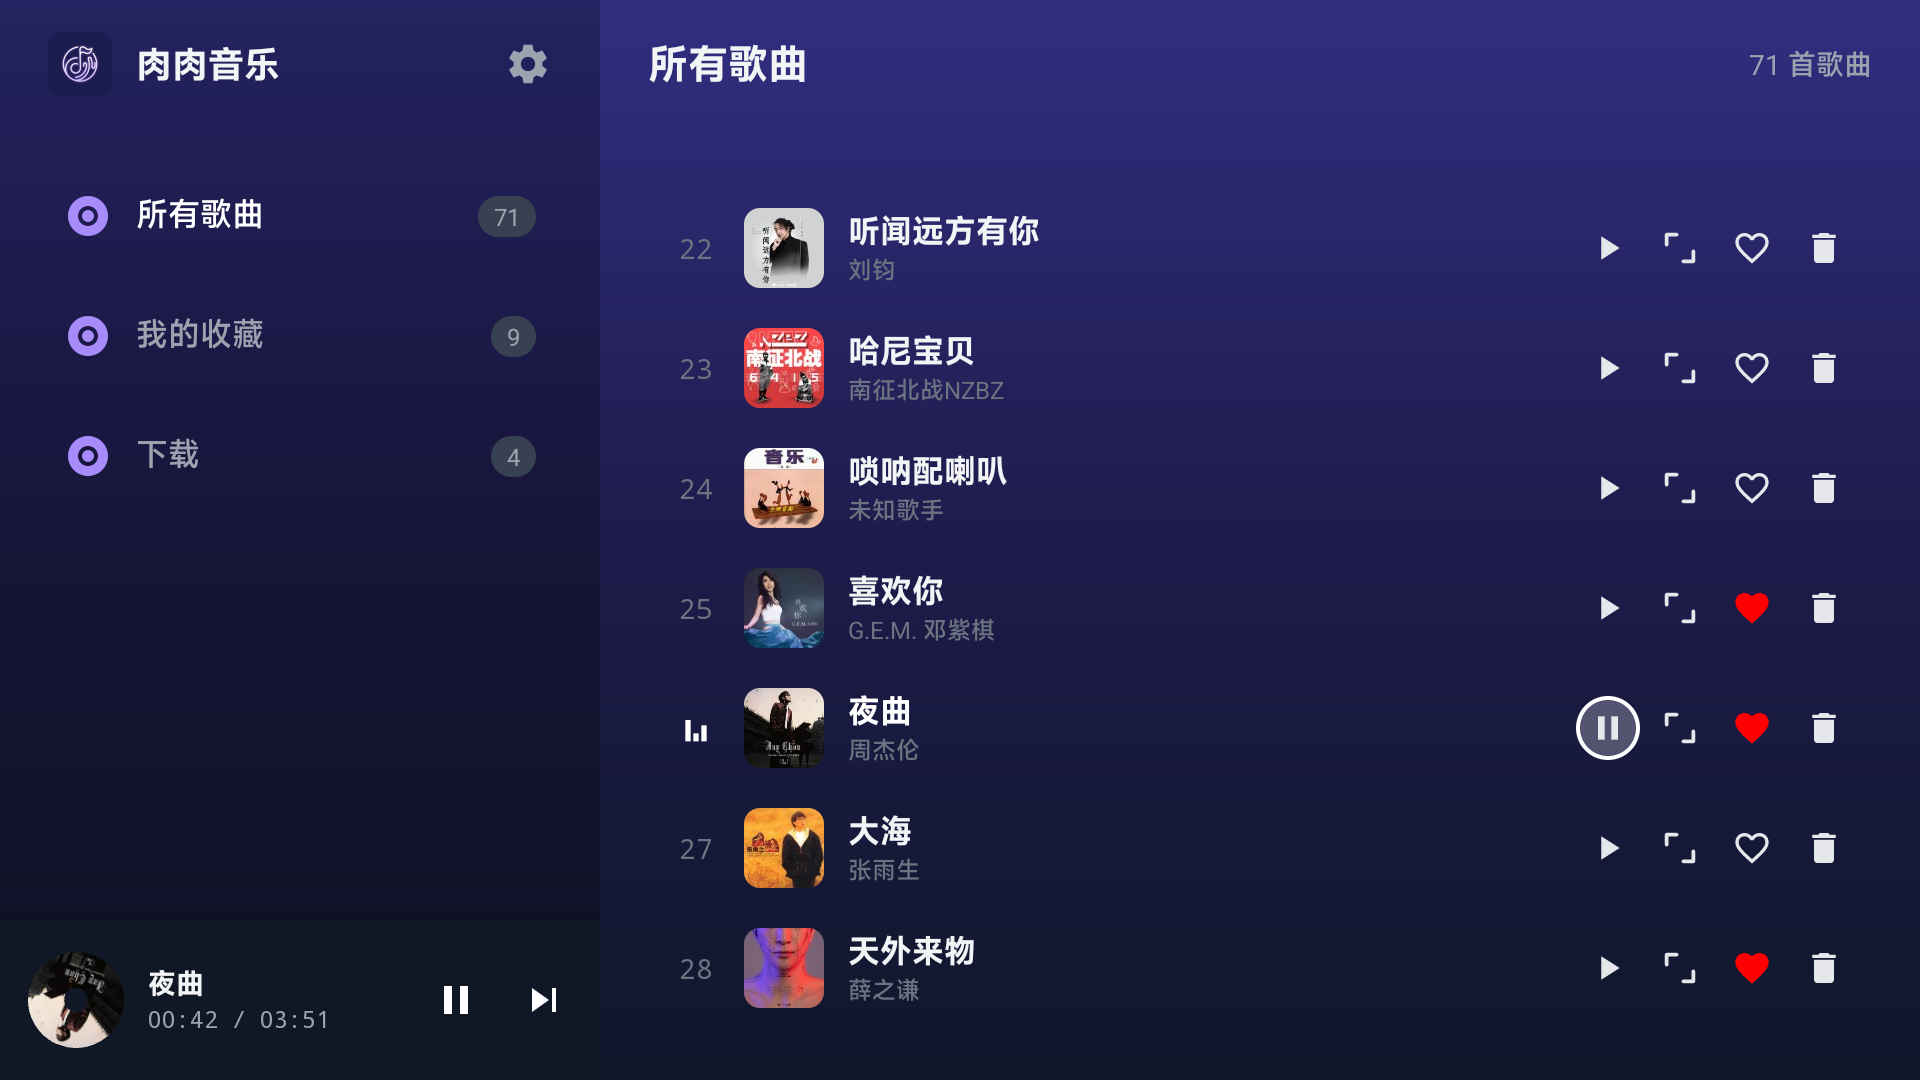
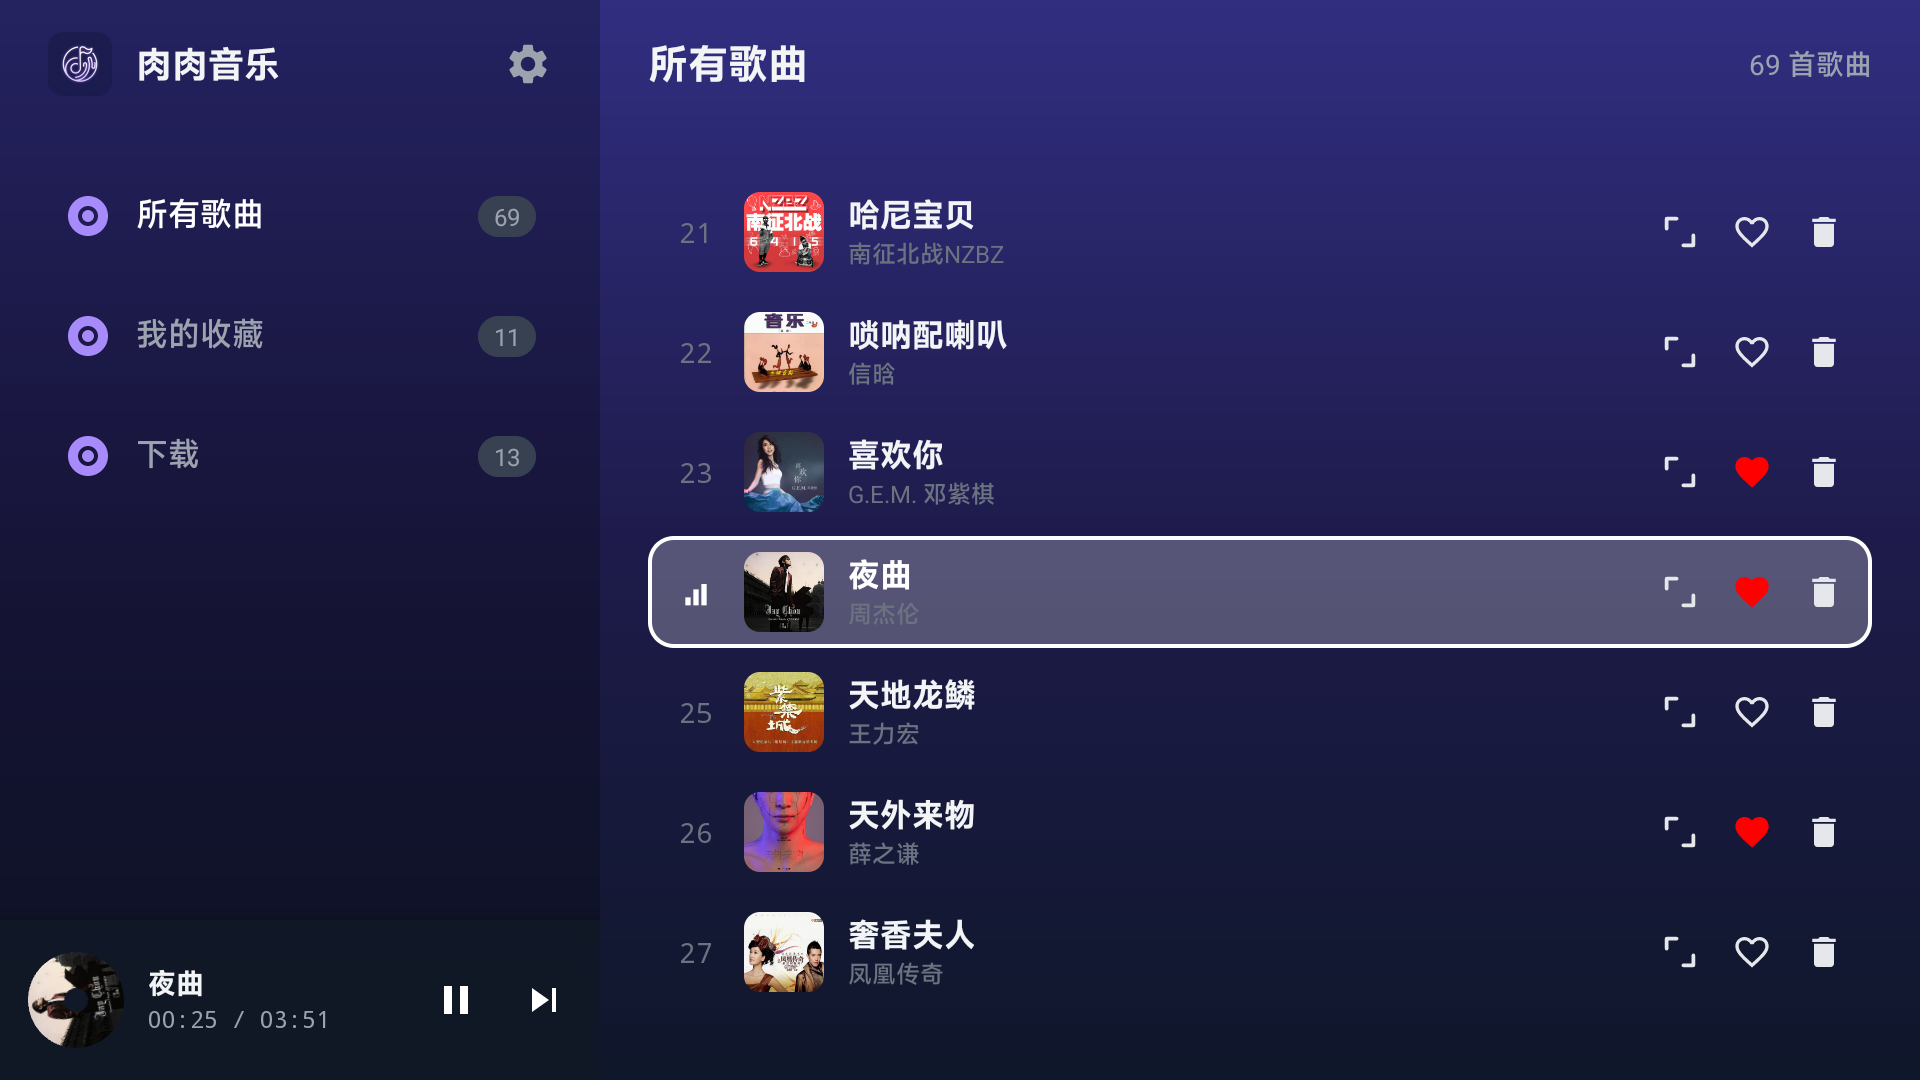
chore: 更新应用版本号至 1.0.7 (8)

diff --git a/README.md b/README.md
@@ -21,11 +21,11 @@ https://github.com/GanHuaLin/rouroumusic-tv
 
 ---
 
-## 🆕 最新版本功能 (v1.0.6)
+## 🆕 最新版本功能 (v1.0.7)
 
-- **新增**：全屏播放界面新增歌词延时微调功能。
-- **优化**：完善歌词封面的保存逻辑；关闭菜单增加焦点回落机制。
-- **修复**：修复偶尔出现的播放进度负数报错和焦点丢失异常。
+- **交互优化**：移除播放列表独立的播放按钮，将其与整行点击（播放/暂停）逻辑合并。
+- **体验优化**：优化 TV 端遥控器的焦点导航（修复列表内焦点跳转异常）。
+- **功能修复**：增强媒体对象判空保护，修复偶发的点击闪退缺陷。
 
 > 详细的更新日志请查看 [CHANGELOG.md](CHANGELOG.md)
 
@@ -36,6 +36,8 @@ https://github.com/GanHuaLin/rouroumusic-tv
 | 快速登录 | 歌曲列表 | 播放界面 |
 | :---: | :---: | :---: |
 | <img src="1.login-page.png" width="300"> | <img src="2.list-page.png" width="300"> | <img src="3.player-page.png" width="300"> |
+| **播放列表** | **功能菜单** |  |
+| <img src="4.player-page-list.png" width="300"> | <img src="5.player-page-menu.png" width="300"> |  |
 
 ---
 
